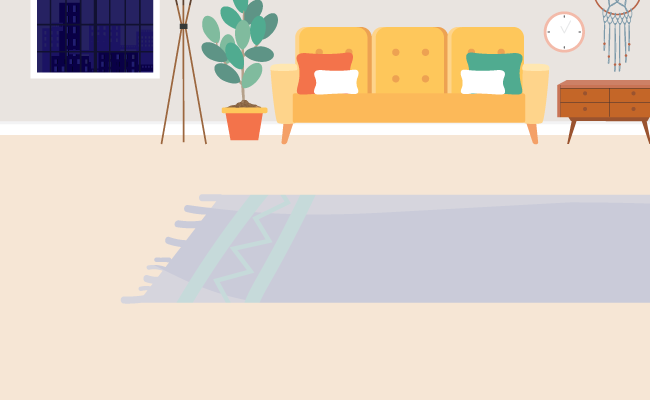
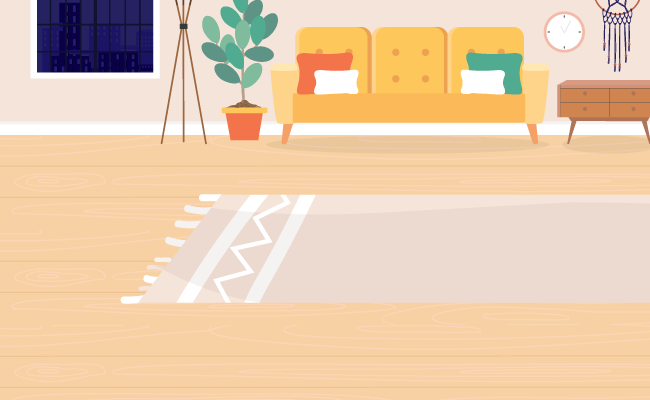
bg updated

diff --git a/script.js b/script.js
@@ -55,7 +55,7 @@ const catSprite = new Image();
 catSprite.src = "CatSprite.png";
 
 const cheeseImage = new Image();
-cheeseImage.src = "cheese_table.png";
+cheeseImage.src = "r2_cheese_table.png";
 
 const background = new Image();
 background.src = "r5_LivingRoom.png";
